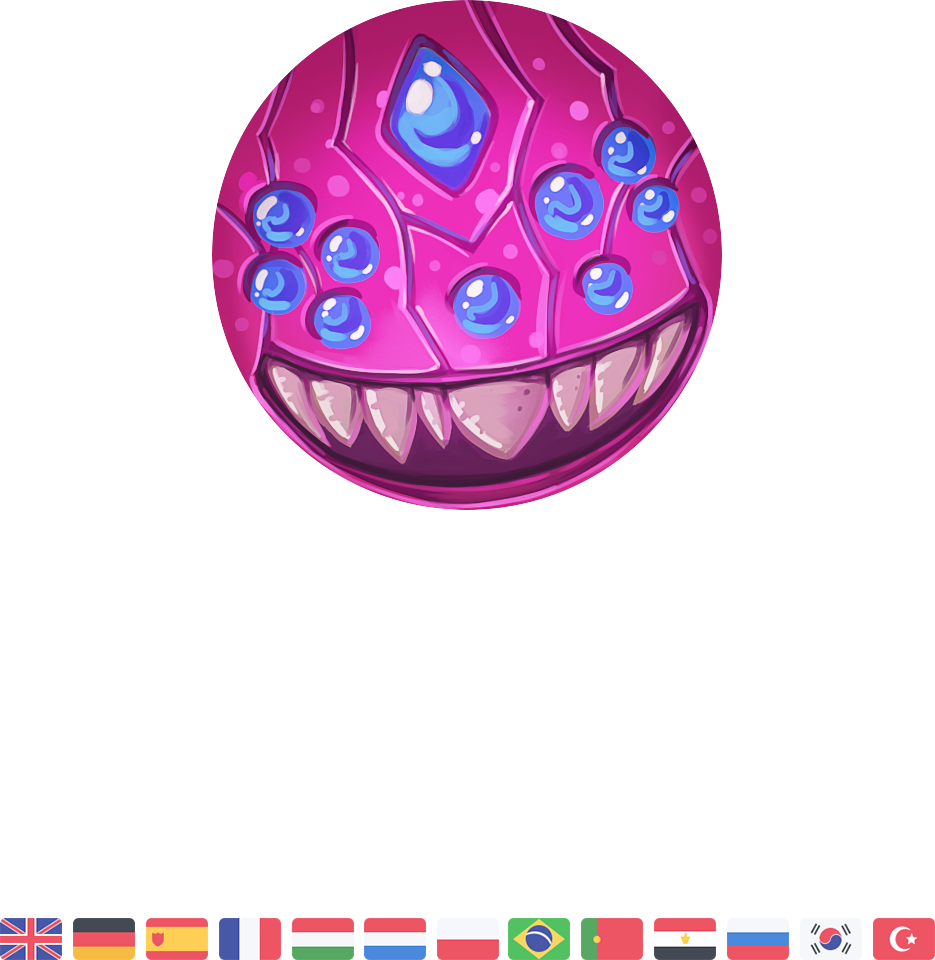
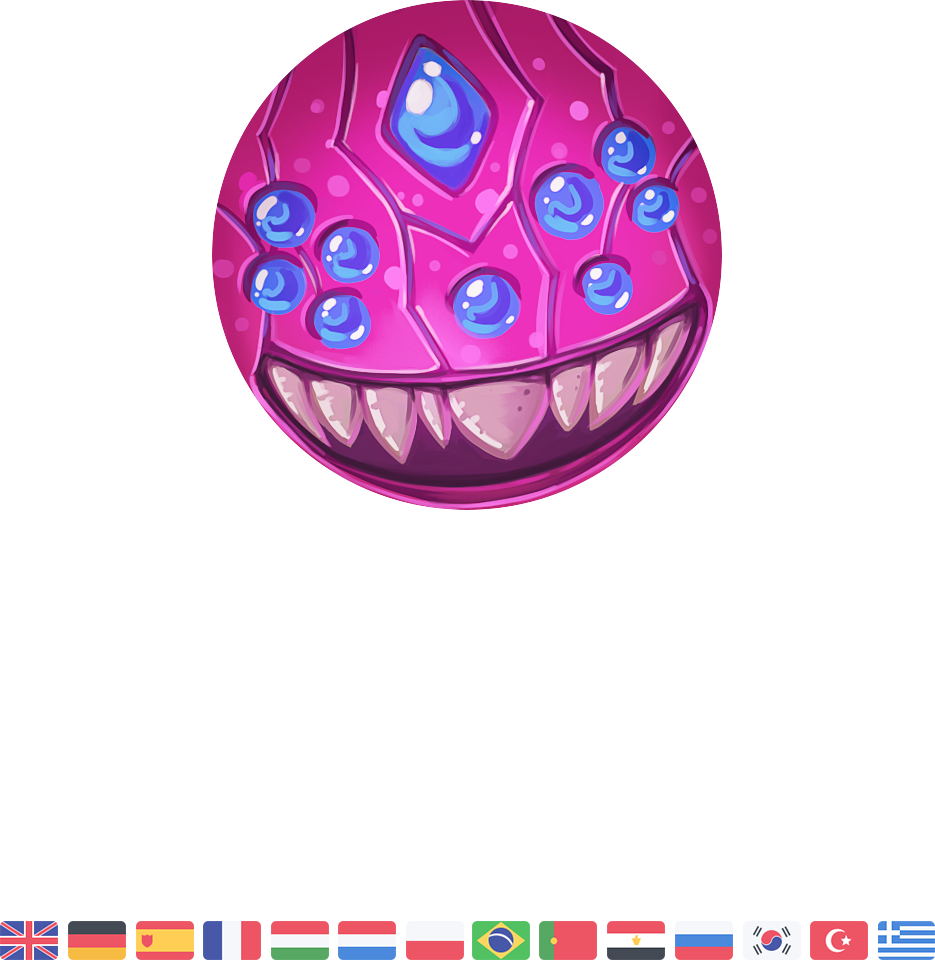
Add GR support to the website.

Changed region(s): [[0.0, 0.9375, 1.0, 1.0]]

diff --git a/index.html b/index.html
@@ -37,6 +37,7 @@
                     <a locale="de"><li><img src="https://image.ibb.co/d0MQKK/Germany.png" /><span class="lang-name">Deutsch</span></li></a>
                     <a locale="es"><li><img src="https://image.ibb.co/f3dexp/Spain.png" /><span class="lang-name">Español</span></li></a>
                     <a locale="fr"><li><img src="https://image.ibb.co/fwgzxp/France.png" /><span class="lang-name">Français</span></li></a>
+                    <a locale="gr"><li><img src="https://i.ibb.co/sPx7gWk/Grecee.png" /><span class="lang-name">Ελληνικά</span></li></a>
                     <a locale="hu"><li><img src="https://image.ibb.co/dkHuV9/Hungary.png" /><span class="lang-name">Magyar</span></li></a>
                     <a locale="nl"><li><img src="https://image.ibb.co/jhmoq9/Netherlands.png" /><span class="lang-name">Nederlands</span></li></a>
                     <a locale="pl"><li><img src="https://image.ibb.co/e5q3OU/Poland.png" /><span class="lang-name">Polski</span></li></a>
